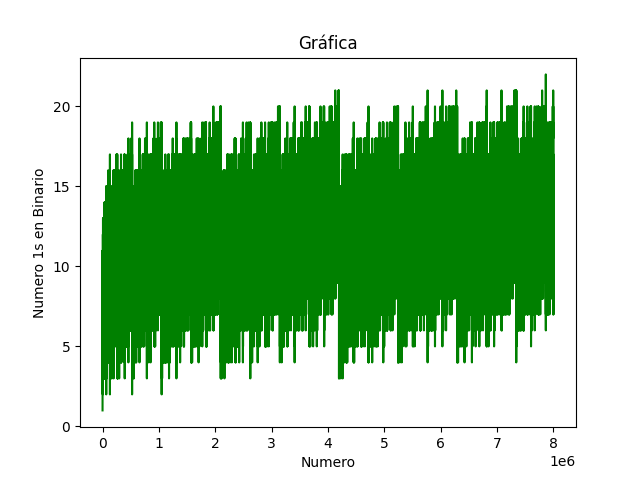
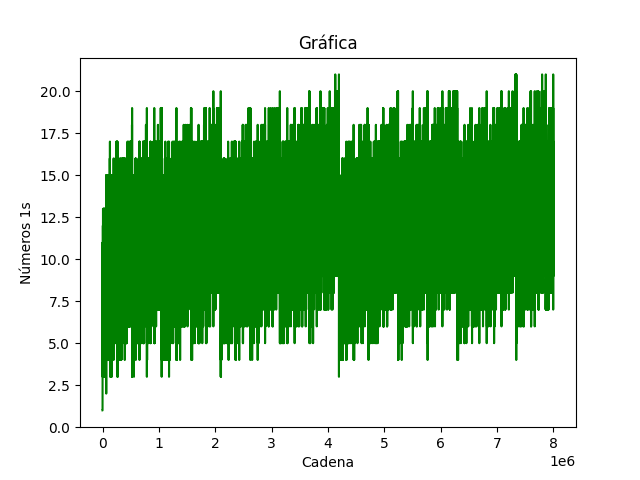
Prácticas primer parcial

diff --git a/P1/Universe.py b/P1/Universe.py
@@ -1,0 +1,98 @@
+ALPHABET=["0","1"]
+ARCHIVO="P1\\Universe.txt"
+ARCHIVO2="P1\\Universe_64.txt"
+
+import matplotlib.pyplot as plt
+import math
+
+def writeFile1(list):
+    with open(ARCHIVO,"w") as file:
+        file.write("{")
+        for x in list:
+            file.write(x+",")
+        file.write("{")
+
+def writeFile64(list):
+    
+    cadena = ""
+    with open(ARCHIVO2,"w") as file:
+        for x in list:
+            
+            if((len(cadena)+len(x))>64):
+              dif = 64 -len(cadena)
+              cadena=cadena + x[:dif] + '\n'
+              file.write(cadena)
+              cadena=x[dif:]  
+            #si ya tiene 64 bits
+            elif((len(cadena)+len(x))==64):
+                cadena = cadena + x + "\n"
+                file.write(cadena)
+                cadena=""
+            else:
+                cadena = cadena + x
+
+
+def plot(ones,ones64):
+    
+    #Numeros 1's
+    plt.plot(list(range(0,len(ones))),ones,color="red")
+    plt.xlabel('Cadena')
+    plt.ylabel('Numeros 1s')
+    plt.title("Gráfica")
+    #plt.savefig('P1\\plot_1s.png')
+    plt.show()
+
+    ones.clear()
+    #Numeros de unos en cadenas de 64 bits
+    plt.plot(list(range(0,len(ones64))),ones64,color="red")
+    plt.xlabel('Cadena')
+    plt.ylabel('Numeros 1s en cadenas 64 bits')
+    plt.title("Gráfica")
+    #plt.savefig('P1\\plot_64.png')
+    plt.show()
+
+    #Numeros de unos en cadenas de 64 bits evaluados en log10
+    plt.plot(list(range(0,len(ones64))),[math.log(i,10) for i in ones64],color="red")
+    plt.xlabel('Cadena')
+    plt.ylabel('Numeros 1s en cadenas 64 bits evaluado en logaritmo base 10')
+    plt.title("Gráfica")
+    #plt.savefig('P1\\plot_64log.png')
+    plt.show()
+
+def count64():
+    
+    with open(ARCHIVO2) as file:
+        frequency = [linea.count("1") for linea in file]        
+    
+    return frequency
+
+def countOne(list):
+    frequency=[ (i.count("1")) for i in list]
+    list.clear()
+    return frequency
+
+def createUniverse(alfabeto,n):
+    uv=["e"]+alfabeto
+    mem = alfabeto
+    for i in range(1,n):
+        mem = ["0"+i for i in mem] + ["1"+i for i in mem]
+        uv = uv + mem
+    return uv
+
+if __name__ == "__main__":
+    
+    while True:
+        n = int(input("Escriba el valor de n hasta el que desea calcular el universo (Sigma^n): "))
+        result = createUniverse(ALPHABET,n)
+        writeFile1(result)
+        writeFile64(result)
+
+        ones=countOne(result)
+        ones2=count64()
+
+        plot(ones,ones2)
+
+        if(input("Calcular de nuevo: \n No = N \n Si = cualquier tecla \n").lower()== "n"):
+            break
+        else:
+            continue

diff --git a/P2/Prime_numbers.py b/P2/Prime_numbers.py
@@ -1,26 +1,49 @@
 import matplotlib.pyplot as plt
+import math
 
 NS = 8000000#200^3
 
-ARCHIVO="P2\\Prime_numbers.txt"
+ARCHIVO_B="P2\\Prime_numbers_binary.txt"
+ARCHIVO_D="P2\\Prime_numbers_decimal.txt"
+
 
 def plotOnes(x,y):    
-    
+    #Grafica numeros 1
     plt.plot(x,y,color="green")
-    #plt.axhline(0, color='black')
-    #plt.axvline(0, color='black')
-    plt.xlabel('Numero')
-    plt.ylabel('Numero 1s en Binario')
+    plt.xlabel('Cadena')
+    plt.ylabel('Números 1s')
     plt.title("Gráfica")
     #plt.savefig('P2\\plot_primes.png')
     plt.show()
 
+    #Grafica logaritmo 2
+    plt.plot(x,[math.log(i,2) for i in y],color="green")
+    plt.xlabel('Cadena')
+    plt.ylabel('Valor Números 1s en logaritmo base 2')
+    plt.title("Gráfica")
+    #plt.savefig('P2\\plot_log2.png')
+    plt.show()
+
+    #Grafica logarimo 10
+    plt.plot(x,[math.log(i,10) for i in y],color="green")
+    plt.xlabel('Cadena')
+    plt.ylabel('Valor Números 1s en logaritmo base 10')
+    plt.title("Gráfica")
+    #plt.savefig('P2\\plot_log10.png')
+    plt.show()
+
 def writeFile(list):
 
-    with open(ARCHIVO,"w") as file:
+    with open(ARCHIVO_D,"w") as file:
         file.write('{')
         for x in list:
             file.write("{}".format(x)+",")
+        file.write('}')
+
+    with open(ARCHIVO_B,"w") as file:
+        file.write('{')
+        for x in list:
+            file.write(format(x,'b')+",")
         file.write('}')
 
 def countOnes(list):
@@ -34,29 +57,32 @@ def countOnes(list):
     return frequency
 
 def calculatePrimes(NP):
-
     #Criba de erastotenes
-    array = list(range(1,NS+1)) 
+    array = list(range(1,NP+1)) 
     aux=1
 
     while True:
         #obtenemos el primer elemento
         first = array[aux]
-        #removemos los multiplos del arreglo principal
         array = [elem for elem in array if elem%first !=0 or elem==first]
-        if(array[aux+1]**2 < NS):
+        if(array[aux+1]**2 < NP):
             aux=aux+1
             continue
         else:
             break
-
     
     return array
 
 if __name__ == "__main__":
-    primes=calculatePrimes(NS)  
-    ones=countOnes(primes)
+    
+    while True:
+        n = int(input("Escriba el número hasta el que desea calcular los número primos: "))
+        primes=calculatePrimes(n)  
+        ones=countOnes(primes)
+        writeFile(primes)
+        plotOnes(primes,ones)
 
-    #print(primes)
-    plotOnes(primes,ones)
-    writeFile(primes)
+        if(input("Calcular de nuevo: \n No = N \n Si = cualquier tecla \n").lower()== "n"):
+            break
+        else:
+            continue

diff --git a/P3/graphic.cpp b/P3/graphic.cpp
@@ -1,0 +1,109 @@
+#include<conio.h>
+#include<graphics.h>
+#include<math.h>
+#include <stdio.h>
+#include <string.h>
+
+#define HEIGHT 800
+#define WIDTH 800
+
+void fillCircle(int x, int y, int color){
+	setfillstyle(SOLID_FILL, color);
+	floodfill(x,y, WHITE);
+}
+
+int main(){
+	
+	//Definir circulo
+	int radius = 60;
+	int x=WIDTH/4,y=HEIGHT/3; 
+		
+	initwindow(WIDTH, HEIGHT);
+	outtextxy((WIDTH/2)-50, 40 ,"PROTOCOL AUTOMATA");
+	//Dibujar circulo
+	//estados
+	circle(x, y, radius); //1
+	circle(x*3, y, radius); //3
+	circle(x*2, 2*y/3, radius-20); //2
+	circle(x*2, y*2, radius-20); //4
+	//
+	setfillstyle(SOLID_FILL, WHITE);
+	circle((x*3)- (radius+3),y, 3);
+	floodfill((x*3)- (radius+3),y, WHITE);
+	
+	circle(x,y+(radius+3),3);	
+	floodfill(x,y+(radius+3), WHITE);
+	
+	circle(x*2+(radius-20)+3,y*2,3);
+	floodfill(x*2+(radius-20)+3,y*2, WHITE);
+	
+	circle(x*2-(radius-20)-3,2*y/3, 3);
+	floodfill(x*2-(radius-20)-3,2*y/3, WHITE);
+
+	circle(x-radius-1,y,3);
+	floodfill(x-radius-1,y,WHITE);
+	
+	circle(x*3, y-radius-2, 3);
+	floodfill(x*3, y-radius-3, WHITE);
+	//lineas
+	line(x+radius,y,x*2-(radius-20)-3,2*y/3);
+	line(x*2+(radius-20), 2*y/3,(x*3)- (radius+3),y);
+	line(x*3, y+radius,x*2+(radius-20)+3,y*2);
+	line(x*2-(radius-20), y*2,x,y+(radius+3));
+	line(x/3,y*1.2, x-radius,y);
+	line(x*3 +radius,y,x*3 + 2*radius,y);
+	line(x*3 + 2*radius,y,x*3 + 2*radius, y-radius-2);
+	line(x*3 + 2*radius, y-radius-2,x*3, y-radius-2);
+	
+	//titles
+	outtextxy((WIDTH/2)-50, y/2-10 ,"DATA IN");
+	outtextxy(x, y-radius-20 ,"READY");
+	outtextxy(x*3, y-radius-20 ,"SENDING");
+	outtextxy(x*2, y*2-radius-20 ,"CHECKING");
+	
+	//ANIMACION
+	getch();
+	do{
+		setcolor(BLACK);
+		outtextxy(x*2-100, y*2-radius+140 ,"Try again  Space = N Other key = Y");
+		
+		fillCircle(x, y, BLUE);
+		delay(1500);
+		fillCircle(x,y, BLACK);
+		
+		int counter=0;
+		while(counter!=6*2){
+			fillCircle(x*2, 2*y/3, BLUE);
+			delay(250);
+			fillCircle(x*2, 2*y/3, BLACK);
+			delay(250);
+			counter+=1;
+		}
+		
+		fillCircle(x*3, y, BLUE);
+		delay(1500);
+		fillCircle(x*3, y, BLACK);
+		delay(1000);
+		fillCircle(x*3, y, BLUE);
+		delay(1500);
+		fillCircle(x*3, y, BLACK);
+				
+		int counter2=0;
+		while(counter2!=6*2){
+			fillCircle(x*2, y*2, GREEN);
+			delay(250);
+			fillCircle(x*2, y*2, RED);
+			delay(250);
+			counter2+=1;
+		}
+		
+		fillCircle(x*2-20, y*2, BLACK);
+		setcolor(WHITE);
+		outtextxy(x*2-100, y*2-radius+140 ,"Try again  Space = N Other key = Y");
+	}while(getch()!=32);	
+	
+	closegraph();
+	
+	return 0;
+	
+}

diff --git a/README.md b/README.md
@@ -10,10 +10,11 @@ Profesor : **Genaro Martínez**
 ## Herramientas empleadas-lenguajes
 
 - Python 3.10.2
-- C++ C++17
+- C++17
 
 ## Contenido
 | Práctica | Descripción |
 |  ----    |--------     |
 |1. Universo  | Creación del universo de cadenas del alfabeto 1,0 y la graficación del número de 1's de cada cadena|
 |2. Números Primos   | Calculo de los números primos de un cierto rango y graficación del número de 1's de cada número en formato binario |
+|3. Protocolo Comunicación | Simulación de un protocolo de comunicación donde se escribe un archivo de texto con un millón de cadenas de 64 bits de largo, y que pasa por un aútomata de paridad|
